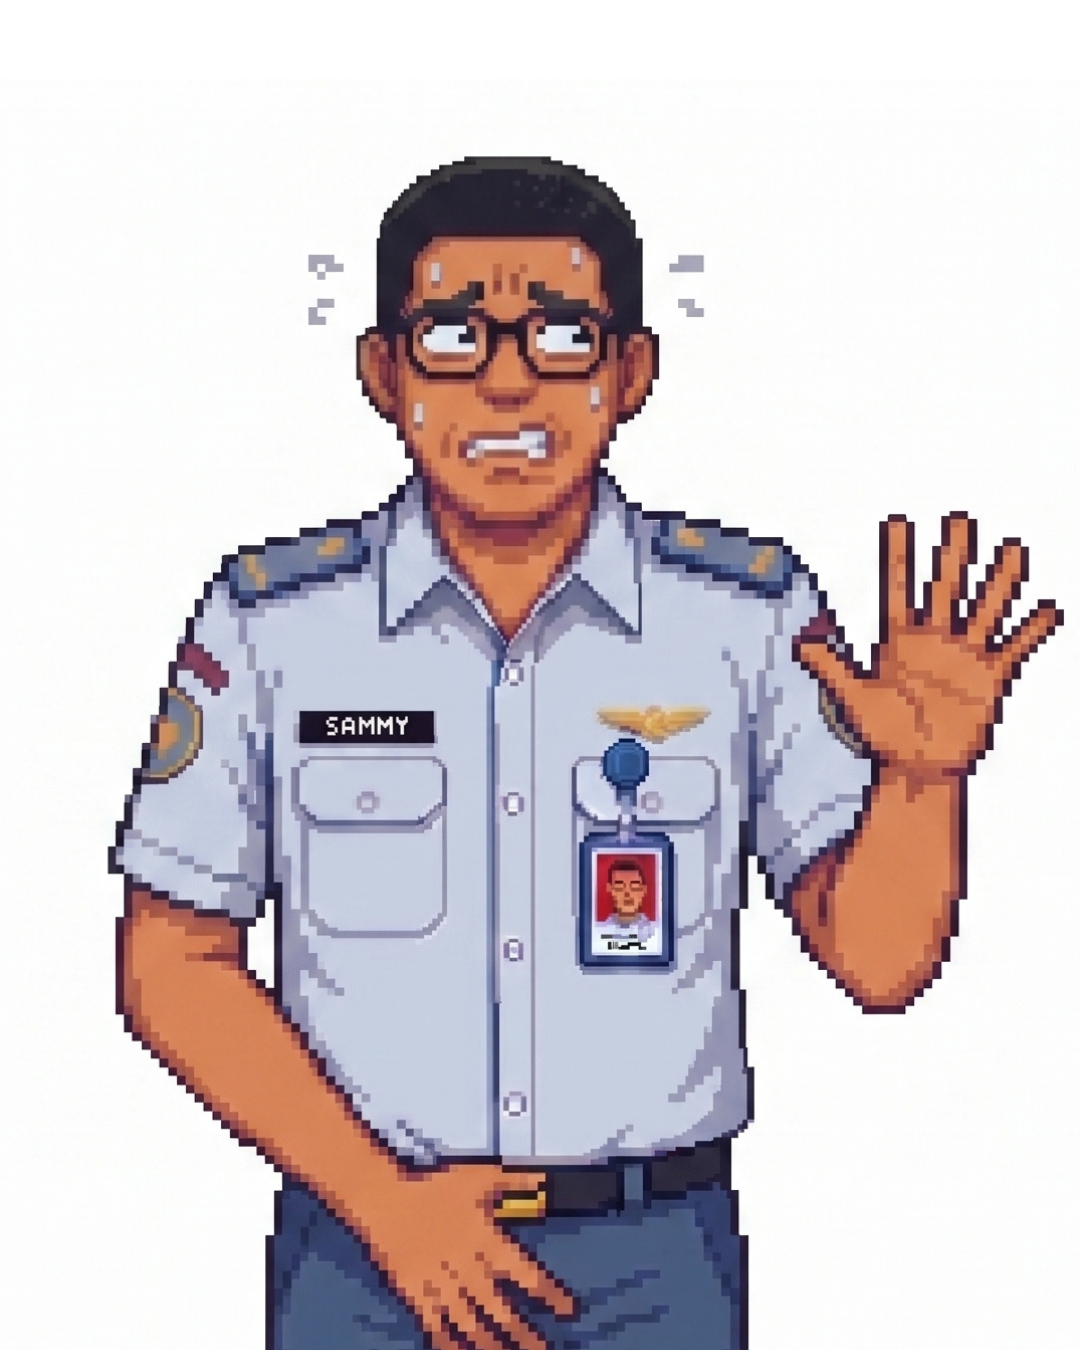
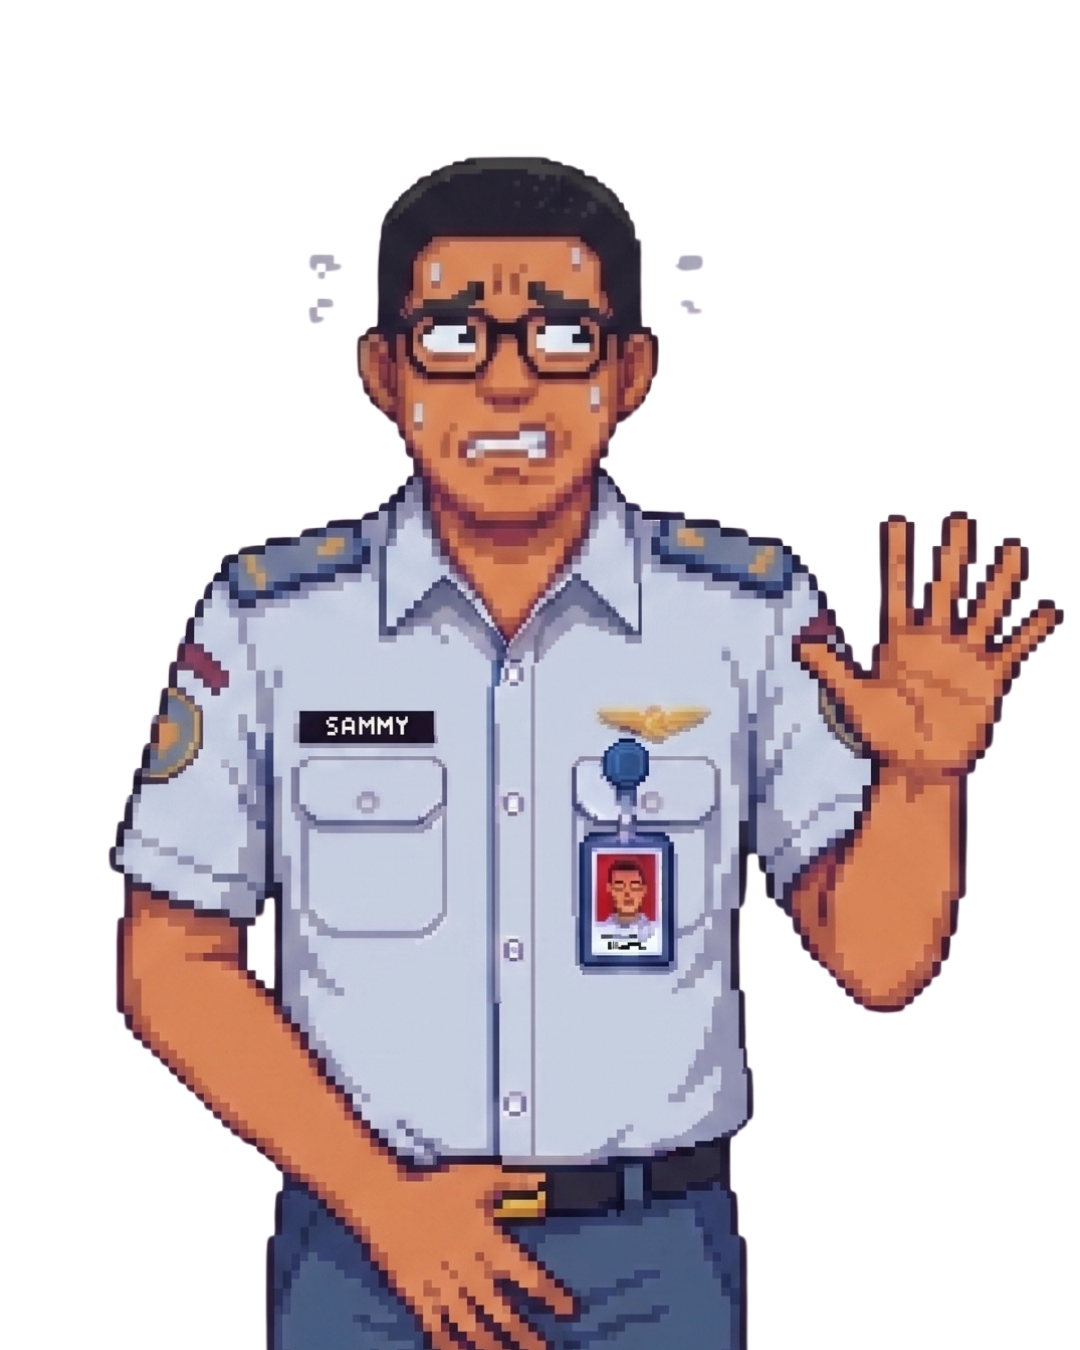
nambain gambar

diff --git a/src/StoryDataLoader.java b/src/StoryDataLoader.java
@@ -275,20 +275,20 @@ public class StoryDataLoader {
     private static List<Scene> createScene6Branch() {
         List<Scene> branch = new ArrayList<>();
 
-        Scene s6 = new Scene(6, "Troubleshooting Program", getBg("lab_komputer"), 60);
+        Scene s6 = new Scene(6, "Troubleshooting Program", getBg("kelas"), 60);
         s6.addDialog("Nat: \"Guys, aku lagi jalanin program kita dan muncul error. Minta tolong diperbaikin ges.\"", getChar("thania_tanya"));
         s6.addDialog("Sammy: \"Iya, kayanya ada urutan kodingan yang salah, deh.\"", getChar("sammy_pusing"));
         s6.addDialog("Dhito: \"Kita suruh penonton kita untuk perbaikin aja kali ya?\"", getChar("dhito"));
 
-        Scene s6_game = new Scene(60, "Puzzle Inheritance Java", getBg("lab_komputer"));
+        Scene s6_game = new Scene(60, "Puzzle Inheritance Java", getBg("kelas"));
         s6_game.setMiniGame(true);
 
-        Scene s6_win = new Scene(61, "Troubleshooting Berhasil", getBg("lab_komputer"), 7);
+        Scene s6_win = new Scene(61, "Troubleshooting Berhasil", getBg("kelas"), 7);
         s6_win.addDialog("Nat: \"Wah, mantap! Programnya langsung jalan tanpa error!\"", getChar("thania"));
         s6_win.addDialog("Sammy: \"Yesss! Makasih ya udah bantuin urutin kodingannya!\"", getChar("sammy_yes"));
         s6_win.addDialog("Dhito: \"Gas lanjut garap bagian lain!\"", getChar("dhito_setuju"));
 
-        Scene s6_lose = new Scene(62, "Troubleshooting Gagal", getBg("lab_komputer"), 7);
+        Scene s6_lose = new Scene(62, "Troubleshooting Gagal", getBg("kelas"), 7);
         s6_lose.addDialog("Nat: \"Aduh, masih error nih. Kayaknya urutannya masih ada yang kebalik.\"", getChar("thania_tanya"));
         s6_lose.addDialog("Sammy: \"Huft... ya sudah deh, biar aku coba periksa manual lagi.\"", getChar("sammy_pusing"));
 
